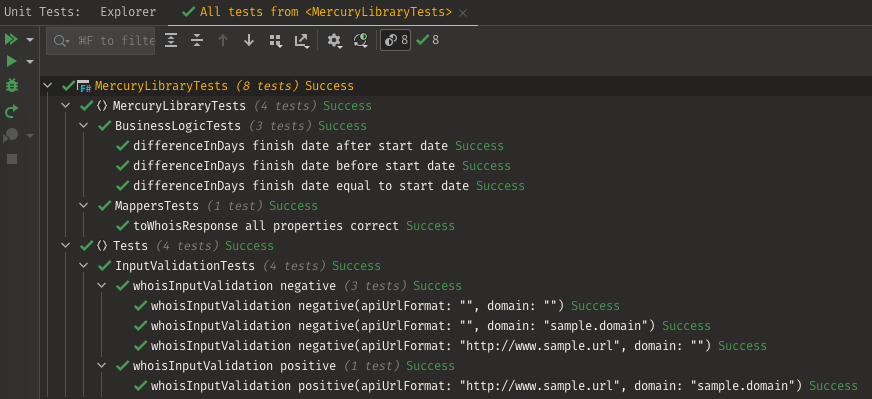
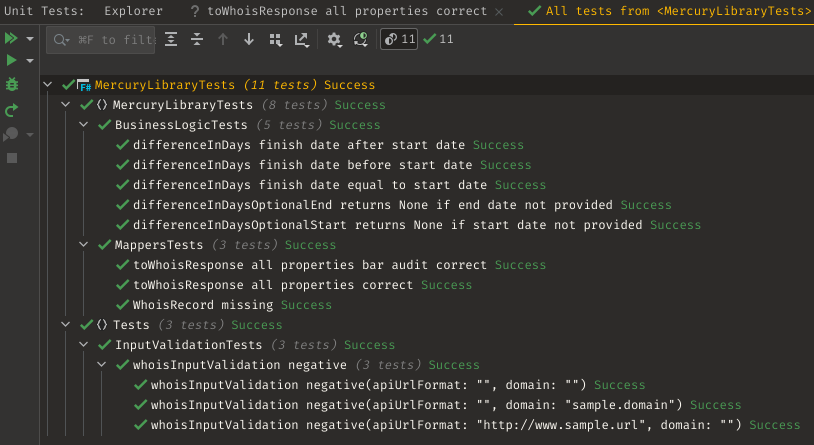
Revision 1 finished.

Changed region(s): [[0.0, 0.0, 0.9828, 0.9925], [0.645, 0.0, 1.0, 0.0602]]

diff --git a/refactoring-tips/index.md b/refactoring-tips/index.md
@@ -16,9 +16,9 @@
 
 # practical functional refactoring tips for the imperative world
 
-This article covers a practical to follow refactoring workflow which helps transform difficult to manage legacy code into a more functional, easier to manage version of itself.
+This article covers a practical to follow refactoring workflow which helps transform difficult to manage legacy code into a more functional, easier to maintain version of itself.
 
-This article is also a good starting point for those wanting to experiment with adopting F# but are not sure where to start.
+It is also a good starting point for those wanting to experiment with adopting F# but are not sure where to start.
 
 ## how did we get here
 
@@ -34,9 +34,12 @@ For the most of 2020 the Emailage Dublin team was busy upgrading the Email Risk 
 
 All those changes helped us solve the hosting/frequent releases problem and gave us strong foundations for quick iterations with tight feedback loops.
 
-We were careful not to affect the business logic though in any way during the upgrade. We quickly realized that while the code is working, does generate revenue and is used by many customers worldwide, it is very difficult to maintain and extend. Equipped with the new hosting strategy, the new framework and the tooling, we decided to tackle the unmaintainable post-startup/frantically-written-at-3-am-to-make-the-sale code in 2021. We also detected a number of performance bottlenecks for which we proposed the actor model. More on that in one of the previous articles [Cutting the distributed Gordian Knot with Virtual Actors - throughput and latency improvements with Orleans](https://github.com/PiotrJustyna/articles/blob/main/orleans/index.md). In order to easily adopt the model and in order to make the code easy to maintain going forward, we simply proposed to split the code into two categories: pure (business logic generally speaking) and effectful (usually I/O, asynchronous code).
+We were careful not to affect the business logic though in any way during the upgrade. We quickly realized that while the code is working, does generate revenue and is used by many customers worldwide, it is very difficult to maintain and extend. Equipped with the new hosting strategy, the new framework and the tooling, we decided to tackle the unmaintainable post-startup/frantically-written-at-3-am-to-make-the-sale code in 2021. We also detected a number of performance bottlenecks for which we proposed the actor model. More on that in one of the previous articles [Cutting the distributed Gordian Knot with Virtual Actors - throughput and latency improvements with Orleans](https://github.com/PiotrJustyna/articles/blob/main/orleans/index.md). In order to easily adopt the model and in order to make the code easy to maintain going forward, we proposed to split the code into two categories:
 
-As we started building the pure, reusable C# 9.0 library, we realized that the code feels very much like F# (immutable models, functional purity), so as a result we decided to use that language instead. Using F# it is also generally more difficult to fall into imperative programming traps that usually have long term side effects.
+* pure (business logic generally speaking)
+* effectful (usually I/O, asynchronous code)
+
+As we started building the pure, reusable C# 9.0 library, we realized that the code feels very much like F# (immutable models, functional purity), so as a result we decided to use that language instead. Using F#, it is also generally more difficult to fall into imperative programming traps that usually have long term side effects.
 
 ## terminology
 
@@ -100,34 +103,37 @@ In our case the categorization is straightforward:
 
 ### step 3 - DTOs/models/value objects
 
-Make the models immutable. In our case all pure code gets translated from C# to F#, so we are going to create some models in the `MercuryLibrary` project.
+Make the models immutable wherever possible. In our case all pure code gets translated from C# to F#, so we are going to create some models in the `MercuryLibrary` project.
+
+Code below demonstrates two categories of models:
+
+* record `WhoisResponse` - regular, immutable F# record
+* classes `Audit` and `WhoisRecord` which are used for interfacing with C# and deserialization (possible `nulls`) - those are allowed to be mutated (mostly due to the fact that they are using for xml deserialization)
 
 ```f#
-[<CLIMutable>]
-type Audit =
-    { createdDate: string
-      updatedDate: string }
+[<AllowNullLiteral>]
+type Audit() =
+    member val createdDate = String.Empty with get, set
+    member val updatedDate = String.Empty with get, set
 
-[<CLIMutable>]
-type WhoisRecord =
-    { createdDate: string
-      updatedDate: string
-      expiresDate: string
-      status: string
-      audit: Audit }
+[<AllowNullLiteral>]
+type WhoisRecord() =
+    member val createdDate = String.Empty with get, set
+    member val updatedDate = String.Empty with get, set
+    member val expiresDate = String.Empty with get, set
+    member val status = String.Empty with get, set
+    member val audit = Audit() with get, set
 
 type WhoisResponse =
     { Domain: string
-      DomainAgeInDays: int
-      DomainLastUpdatedInDays: int
-      DomainExpirationInDays: int
-      AuditCreated: DateTime
-      AuditUpdated: DateTime }
+      DomainAgeInDays: Option<float>
+      DomainLastUpdatedInDays: Option<float>
+      DomainExpirationInDays: Option<float>
+      AuditCreated: Option<DateTime>
+      AuditUpdated: Option<DateTime> }
     override x.ToString() =
         $"\"{x.Domain}\": {x.DomainAgeInDays} days since domain creation, {x.DomainLastUpdatedInDays} days since domain last updated, {x.DomainExpirationInDays} until domain expires"
 ```
-
-The code is also available here as a separate branch: [Step 3](https://github.com/PiotrJustyna/mercury-pure-functional/tree/Step3).
 
 ### step 4 - isolate remaining pure responsibilities
 
@@ -137,8 +143,8 @@ Move all pure responsibilities (in our case input validation, mapping and busine
 
 ```fsharp
 let whoisInputValidation (apiUrlFormat: string) (domain: string) =
-    if String.IsNullOrWhiteSpace apiUrlFormat then raise (new ArgumentException(nameof(apiUrlFormat))) else ()
-    if String.IsNullOrWhiteSpace domain then raise (new ArgumentException(nameof(domain))) else ()
+    if String.IsNullOrWhiteSpace apiUrlFormat then invalidArg (nameof apiUrlFormat) ""
+    if String.IsNullOrWhiteSpace domain then invalidArg (nameof domain) ""
 ```
 
 #### business logic
@@ -150,52 +156,54 @@ let differenceInDays (start: DateTime) (finish: DateTime) = (finish - start).Day
 #### mapping logic
 
 ```fsharp
-let toWhoisResponse (domain: string) (whoisRecord: WhoisRecord) =
-    let now = DateTime.UtcNow
+let parseDate (date: string) =
+    match DateTime.TryParse date with
+    | true, date -> Option.Some date
+    | false, _ -> Option.None
 
-    let createdDate =
-        match DateTime.TryParse whoisRecord.createdDate with
-        | _, date -> date
+let toWhoisResponse (now: DateTime) (domain: string) (whoisRecord: WhoisRecord) =
+    if obj.ReferenceEquals(whoisRecord, null) then
+        Option<WhoisResponse>.None
+    else
+        let createdDate = parseDate whoisRecord.createdDate
 
-    let updatedDate =
-        match DateTime.TryParse whoisRecord.updatedDate with
-        | _, date -> date
+        let updatedDate = parseDate whoisRecord.updatedDate
 
-    let expiresDate =
-        match DateTime.TryParse whoisRecord.expiresDate with
-        | _, date -> date
+        let expiresDate = parseDate whoisRecord.expiresDate
 
-    let auditCreatedDate =
-        match DateTime.TryParse whoisRecord.audit.createdDate with
-        | _, date -> date
+        if obj.ReferenceEquals(whoisRecord.audit, null) then
+            let whoisResponse =
+                { Domain = domain
+                  DomainAgeInDays = BusinessLogic.differenceInDaysOptionalStart createdDate now
+                  DomainLastUpdatedInDays = BusinessLogic.differenceInDaysOptionalStart updatedDate now
+                  DomainExpirationInDays = BusinessLogic.differenceInDaysOptionalEnd now expiresDate
+                  AuditCreated = Option.None
+                  AuditUpdated = Option.None }
 
-    let auditUpdatedDate =
-        match DateTime.TryParse whoisRecord.audit.updatedDate with
-        | _, date -> date
+            Option<WhoisResponse>.Some whoisResponse
+        else
+            let auditCreatedDate = parseDate whoisRecord.audit.createdDate
 
-    { Domain = domain
-      DomainAgeInDays = BusinessLogic.differenceInDays createdDate now
-      DomainLastUpdatedInDays = BusinessLogic.differenceInDays updatedDate now
-      DomainExpirationInDays = BusinessLogic.differenceInDays now expiresDate
-      AuditCreated = auditCreatedDate
-      AuditUpdated = auditUpdatedDate }
+            let auditUpdatedDate = parseDate whoisRecord.audit.updatedDate
+
+            let whoisResponse =
+                { Domain = domain
+                  DomainAgeInDays = BusinessLogic.differenceInDaysOptionalStart createdDate now
+                  DomainLastUpdatedInDays = BusinessLogic.differenceInDaysOptionalStart updatedDate now
+                  DomainExpirationInDays = BusinessLogic.differenceInDaysOptionalEnd now expiresDate
+                  AuditCreated = auditCreatedDate
+                  AuditUpdated = auditUpdatedDate }
+
+            Option<WhoisResponse>.Some whoisResponse
 ```
-
-The code is also available here as a separate branch: [Step 4](https://github.com/PiotrJustyna/mercury-pure-functional/tree/Step4).
 
 ### step 5 - unit test
 
 In our case, the legacy code did not have any unit tests, so new tests will be needed.
 
-Most of our unit tests will reside alongside the F# code, but some (those involving null-checking) will be written in C# to save us some headache (again, null-checking is not an everyday thing in the F# world).
-
-To unit test the C# null-checking code, we are going to make it public. If it was not a hello-world but actual, production-grade code we would still prefer making the functions public (but not disclosing them in any interface) rather than unit testing indirectly through their public callers for more straightforward testability. In our case there are no interfaces, hence the need for this comment.
-
-For unit tests, we are going to use xunit as it is a mature product and it is supported by C# and F#. What is provided in terms of unit tests is just an idea of what and how can be tested and can be greatly expanded beyond the scope of this article.
+For unit tests, we are going to use xunit as it is a mature product and it is supported by C# and F#. Additionally, we are going to use [unquote](https://github.com/SwensenSoftware/unquote) to improve the unit testing experience. What is provided in terms of unit tests is just an idea of what and how can be tested and can be greatly expanded beyond the scope of this article.
 
 ![1](./img/1.png)
-
-The code is also available here as a separate branch: [Step 5](https://github.com/PiotrJustyna/mercury-pure-functional/tree/Step5).
 
 It is not claimed that the code is perfect, but undoubtedly it is now much easier to test, reason about, maintain and support.
 
@@ -205,7 +213,7 @@ Before: [https://github.com/PiotrJustyna/mercury-legacy/blob/main/MercuryLegacy/
 
 After: [https://github.com/PiotrJustyna/mercury-pure-functional/blob/main/MercuryHost/Program.cs](https://github.com/PiotrJustyna/mercury-pure-functional/blob/main/MercuryHost/Program.cs)
 
-Looking at the code side by side, responsibility of each function is immediately apparent. The starting block of code reduced in size by 50% and 75% of its starting responsibilities got migrated to testable functions. We started with no unit tests and ended up with a very respectable coverage that is easy to expand further.
+Looking at the code side by side, responsibilities of each function are immediately apparent. The starting block of code reduced in size by 50% and 75% of its starting responsibilities got migrated to testable functions. We started with no unit tests and ended up with a very respectable coverage that is easy to expand further.
 
 Furthermore, and that is the key win of our proposed refactoring, it is guaranteed that all the code in the F# library is pure and can be composed with no preparations.
 
@@ -225,7 +233,9 @@ I am grateful to have received some great feedback after publishing the article:
   * before: `if confition then A else ()`
   * before: `if confition then A`
 
-* null checking on the C# side - this is slightly more involved and requires us to take a step back and revise what we know about F# types.
+* null checking on the C# side - this is slightly more involved and requires us to take a step back and revise what we know about F# types. Additional helpful resources:
   * [Classes (F#)](https://docs.microsoft.com/en-us/dotnet/fsharp/language-reference/classes)
+  * [Classes (F# for Fun and Profit)](https://fsharpforfunandprofit.com/posts/classes/)
+    * [defining classes for use by other .NET code](https://fsharpforfunandprofit.com/posts/classes/#tip-defining-classes-for-use-by-other-net-code)
   * [Null Values](https://docs.microsoft.com/en-us/dotnet/fsharp/language-reference/values/null-values)
   * [AllowNullLiteralAttribute](https://fsharp.github.io/fsharp-core-docs/reference/fsharp-core-allownullliteralattribute.html#Value)
